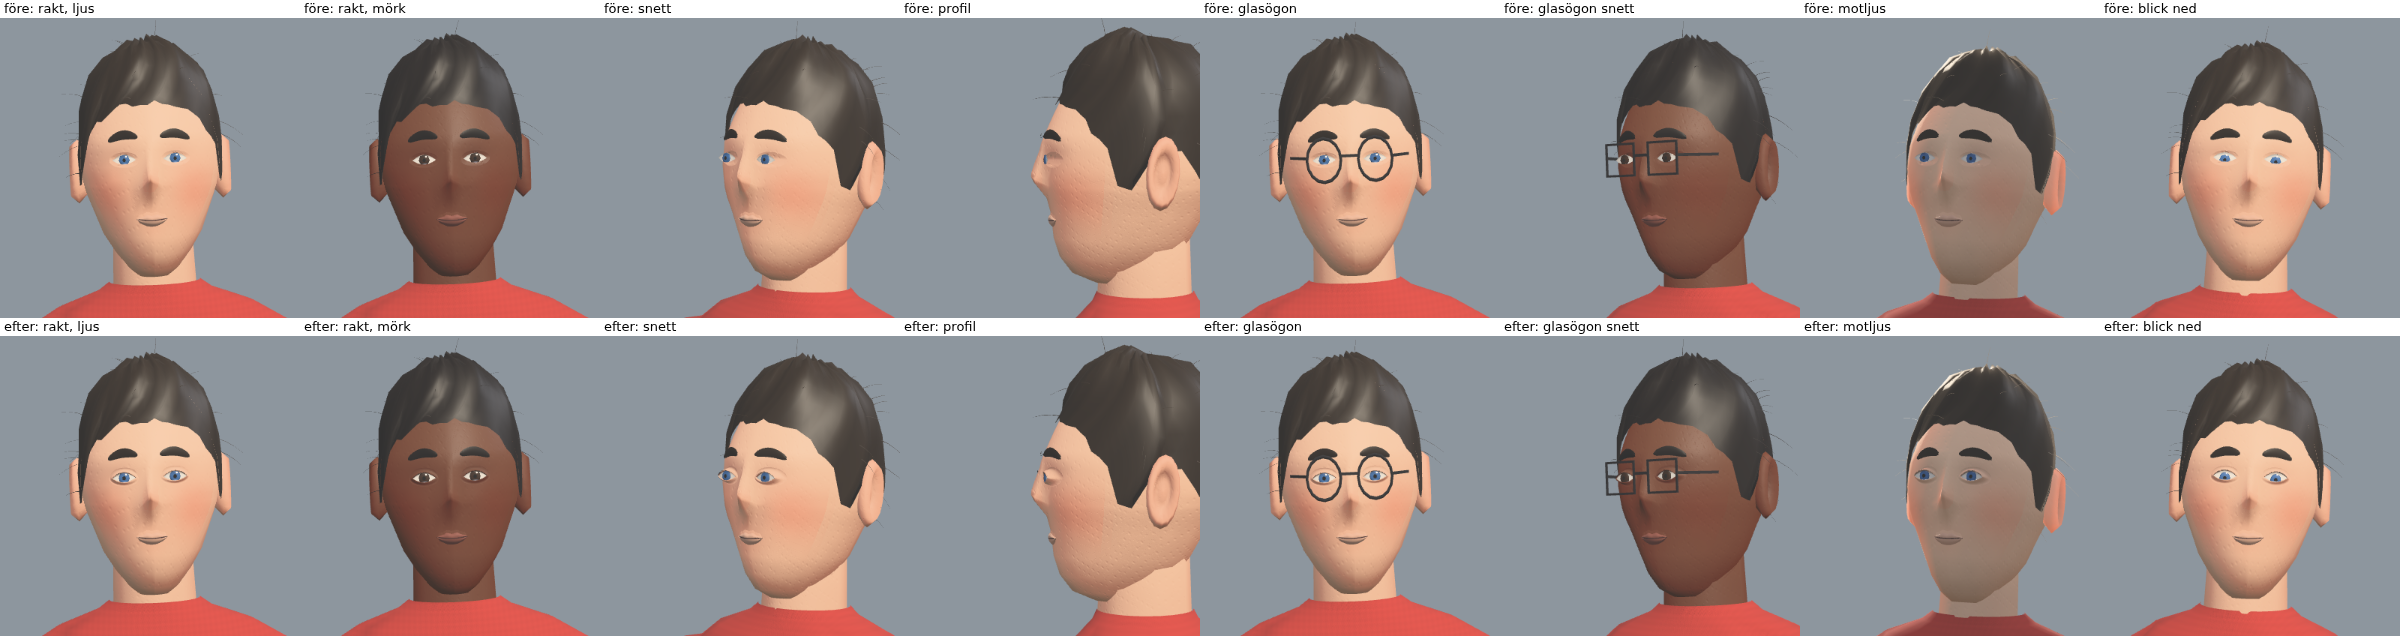
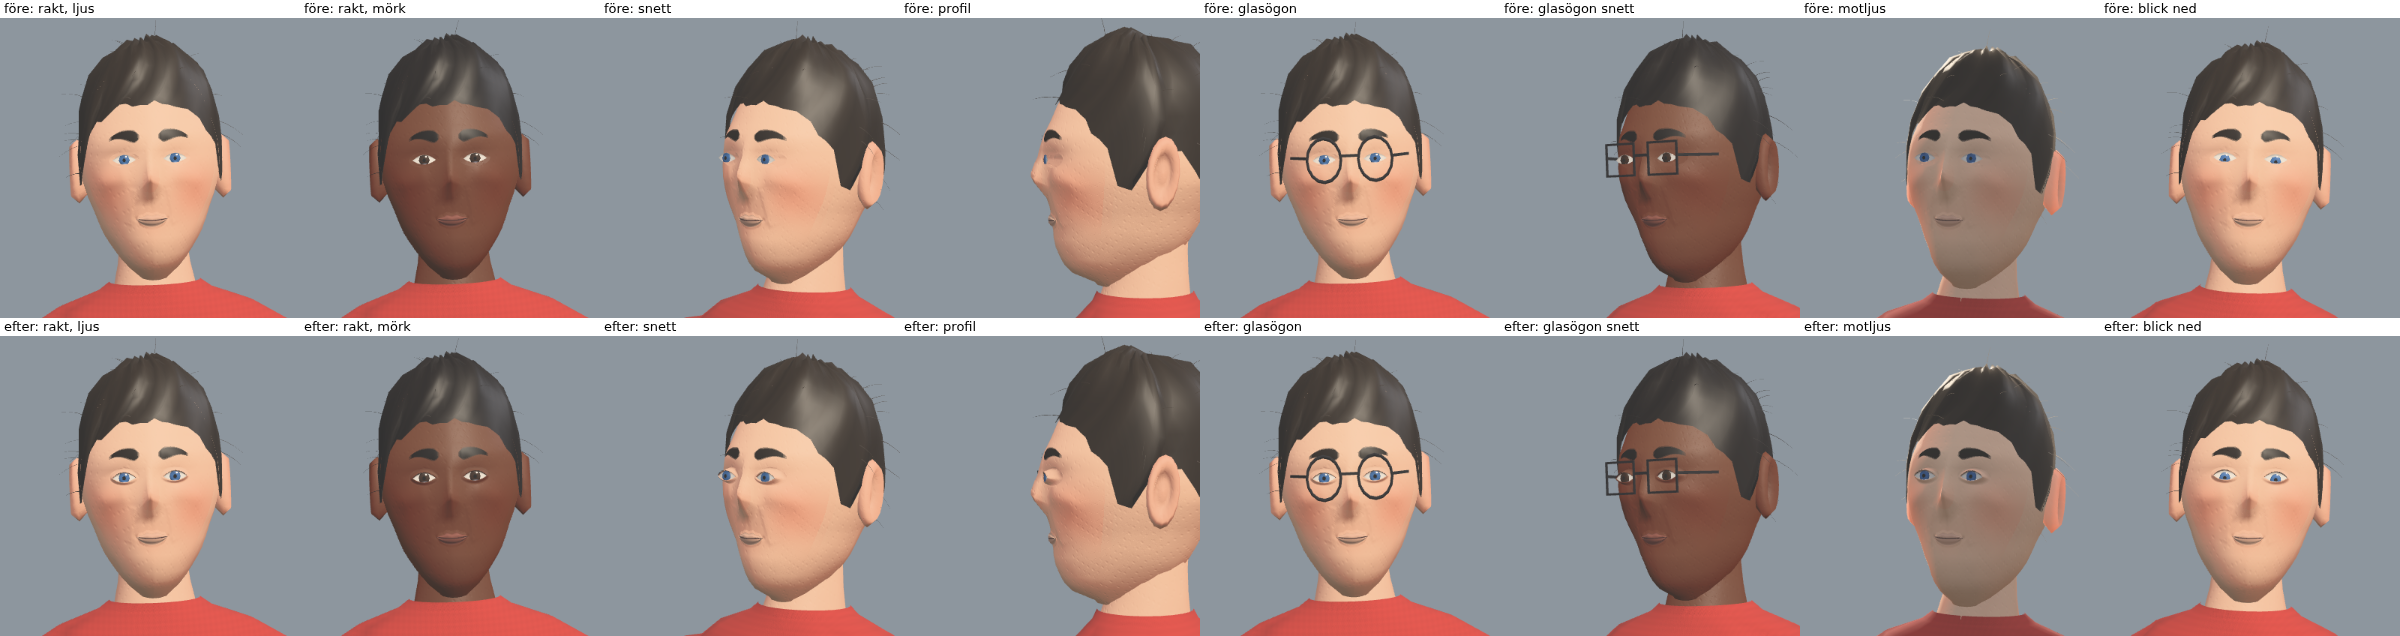
Ögon: fransarna utanför brynens hårskuggning, resultatbilder på integrerad revision (Refs #2045)

diff --git a/docs/development/graphics.md b/docs/development/graphics.md
@@ -1049,14 +1049,15 @@ centre, before the head's widthwise warp) and blinks them; still one draw call, 
 opening: the margin's back sits inside the opening behind the eyeball (no slit where they meet), its front edge stands `thick` m proud of
 the eyeball (thickness in profile), rounds over and falls onto the head's surface tangentially (`headFront`, so #2044's socket sculpt
 carries the outer edge along); the upper lid has a shallow, darker fold (`crease`) and its front row is darker (the lash line). The upper
-lashes are a closed wedge along the margin in the brows' colour × `lash.shade` (region 9 inside the eye part: no glint, hair roughness).
+lashes are a closed wedge along the margin in the brows' colour × `lash.shade` (region 9 inside the eye part: no glint, hair roughness;
+#2046's brow hairs (`browColor` / `browRoughness`, `part: FACE_PART.brow`) shade only the brow part).
 `lidBlink` (vertex, the eye branch after the gaze; replaces #2011's squeeze about the centre) moves both margins onto a closing line a
 third down the lower opening, the upper lid's skin up to `fold` m above its margin stretching with them, squeezes the eyeball, iris and
 pupil onto the line and pushes them `push` m back, and folds the lashes down; the lashes collapse onto the margin when shorter than
 `lash.px` on screen (`uFly`, #2040: buffer height and MSAA), so a far figure's lash line is the darker margin only and never flickers.
-Budget: 1,248 eye triangles per avatar against #2033's 608 (+640, 7.2 % of the 8,904 head-bone triangles of style 0); the #2002/#2012
+Budget: 1,248 eye triangles per avatar against #2033's 608 (+640, 6.7 % of style 0's head-bone triangles after #2043); the #2002/#2012
 whole-avatar budgets in `tools/avatarheadtest.mjs` leave that growth out, `tools/avatarlidstest.mjs` holds it. Vertex: a few ALU per
-eye vertex; fragment unchanged but the lashes' region test. Known limits: the lid's outer edge still meets the coarse head mesh (#2043)
-along a visible line in steep views, and the eye stands well proud of the temple in profile (the socket is #2044's).
+eye vertex; fragment unchanged but the lashes' region test. Known limits: the lid's outer edge meets the head mesh along a visible line in steep views, and the eye stands well proud of the
+temple in profile (the eye's depth against the head; the socket is #2044's).
 Check: `node --test tools/avatarlidstest.mjs tools/avatareyestest.mjs tools/avatarheadtest.mjs` and
 `tools/browsertest.sh node tools/avatarlids2045browser.cjs SITE docs/verification/2045 [BEFORE]` ([images](../verification/2045/)).

diff --git a/docs/verification/2045/README.md b/docs/verification/2045/README.md
@@ -1,6 +1,6 @@
 # Round irises, thick lids, crease and lash line — #2045
 
-Baseline `b5cb5c95` (before: its `src/`, `tools/` and `data/` served under `/before/`, with this branch's `tools/avatareyes.html` harness).
+Baseline `1fe1aba1` (origin/main with #2043, #2044 and #2046; before: its `src/`, `tools/` and `data/` served under `/before/`, with this branch's `tools/avatareyes.html` harness).
 `tools/avatarlids2045browser.cjs` on `tools/avatareyes.html` (SwiftShader, MSAA, the game's four lights and tone mapping). Rows: före / efter.
 
 | Image | Shows |
@@ -16,9 +16,9 @@ proud of the eyeball (visible in profile and three-quarter), a shallow darker cr
 (a lash wedge plus the darker margin); the blink brings both margins together so the shut eye is skin from lid to lid with the lashes
 folded down, in light and dark skin.
 
-Checks: browser run PASS (no page/shader errors, one draw call per frame, no bright pixel in a shut eye, far flicker 0.20 / 0.27 / 0.27
-against 0.20 / 0.28 / 0.23 before at 1 / 2 / 4 m — the 4 m difference is the darker margin line where the iris used to be, within the
+Checks: browser run PASS (no page/shader errors, one draw call per frame, no bright pixel in a shut eye, far flicker 0.19 / 0.27 / 0.31
+against 0.19 / 0.28 / 0.26 before at 1 / 2 / 4 m — the 4 m difference is the darker margin line where the iris used to be, within the
 check's tolerance); `tools/avatareyestest.cjs` (#2033 glint follows the sun, pupil sizes, shut eye) and `tools/avatargazetest.cjs`
-(#2011 blink and gaze limits) PASS. Node: `avatarlidstest` 5/5, all `tools/avatar*test.mjs` + `riggedavatartest` 164/164.
-Budget: eye triangles 608 → 1,248 per avatar (+640, 7.2 % of style 0's 8,904 head-bone triangles; limit +10 %), one draw call, no
-new attribute/light/pass/texture. Not covered: physical devices, the in-game mirror (same geometry builder).
+(#2011 blink and gaze limits) PASS. Node: `avatarlidstest` 5/5, all `tools/avatar*test.mjs` + `riggedavatartest` 171/171 (the #2046 brow test leaves the lashes, region 9 inside the eye part, out).
+Budget: eye triangles 608 → 1,248 per avatar (+640, 6.7 % of style 0's head-bone triangles without the eyes' growth, 4.2 % for style 4; limit +10 %), one draw call, no
+new attribute/light/pass/texture. The lashes share the brows' region 9; `src/avatarbrow.js` now takes a `part` so the #2046 brow hairs shade only the brow part. Not covered: physical devices, the in-game mirror (same geometry builder).
